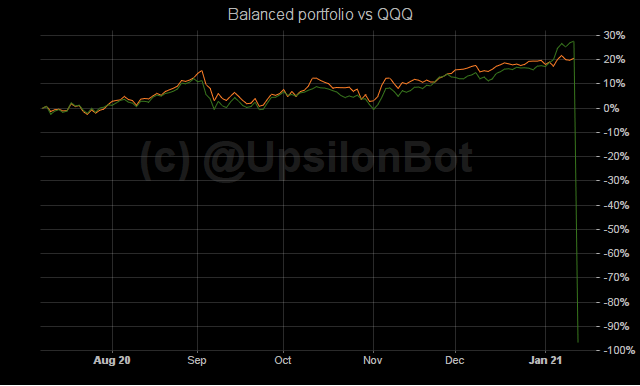
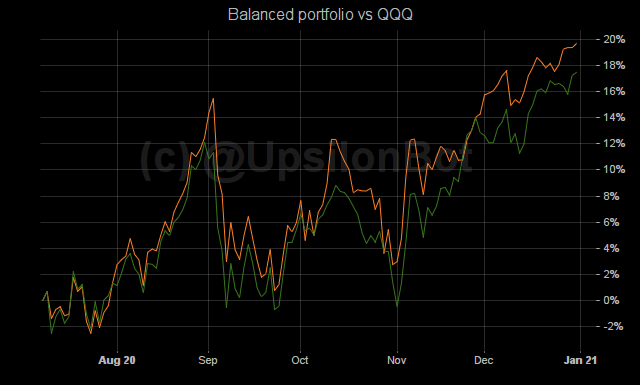
правки по расчетам

diff --git a/tester/tester.py b/tester/tester.py
@@ -386,7 +386,11 @@ def portfolio_tester(init_cap=10000, port_id='parking', allocator_data_interval=
         save_portfolio_weights(name=port_id, portfolio_weights=weights)
 
     sd = real_start_date
-    create_candle_portfolio_img(port_id=port_id, compare_ticker=compare_ticker, start_date=sd, chart_type='Line')
+    create_candle_portfolio_img(port_id=port_id,
+                                compare_ticker=compare_ticker,
+                                start_date=sd,
+                                end_date=allocator_end_date,
+                                chart_type='Line')
 
 
 def main():
